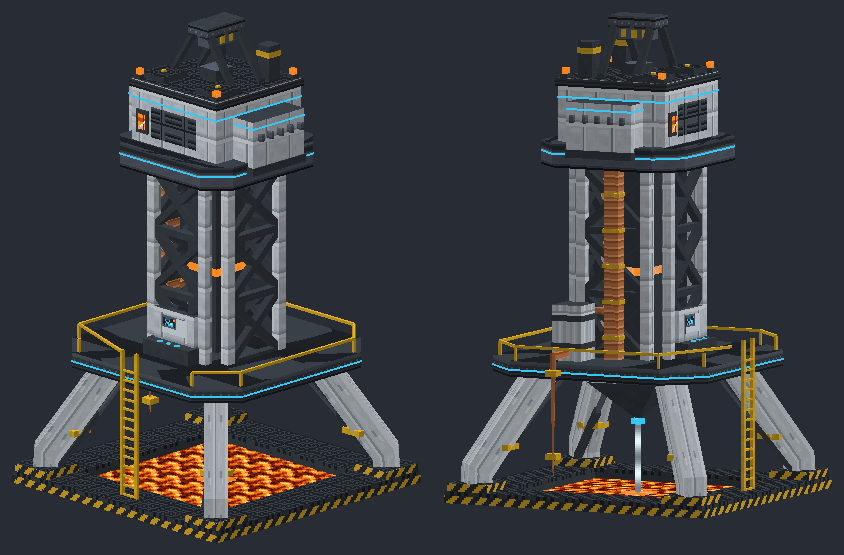
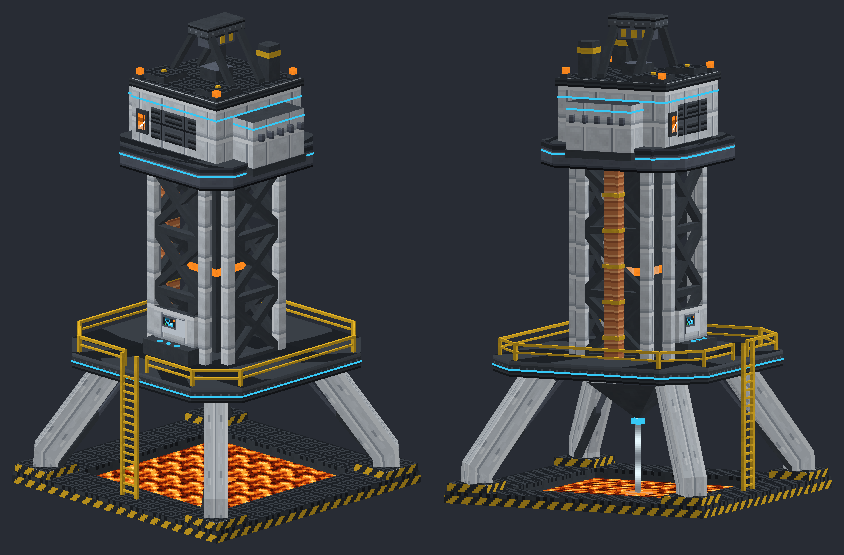
Mega drill cleaned up: no tank or supply pole, no clamps on the legs, a clean two-rail handrail with a gap for the ladder

diff --git a/art/tools/mega_drill_concept.py b/art/tools/mega_drill_concept.py
@@ -10,9 +10,8 @@ the foot so you see the laser going in. Bottom to top:
 - The emitter: a graphite pyramid hung under the deck, its lens glowing, its beam straight down into
   the pit.
 - The deck: a cut-corner square platform, grated, its edge a graphite band with the light line, a
-  yellow handrail round it, a ladder up from the ground; the console against the column facing the
-  ladder's top; and the coolant tank beside the column, piped into its coolant duct and fed by a
-  supply line down off the deck's edge.
+  yellow handrail round it with a gap for the ladder up from the ground, and the console against the
+  column facing the ladder's top.
 - The column: an open lattice, eight posts with big X braces on its four faces, the drive shaft
   inside with an amber band, a square duct up one side.
 - The collar: a wider cut-corner ring with vents and its light line.
@@ -116,9 +115,7 @@ for sx, sz in ((-1, -1), (1, -1), (1, 1), (-1, 1)):
     across = (-out[2], 0, out[0])
     d.sweep('drill_leg', [(foot[0], RING, foot[1]), (foot[0], RING + 10, foot[1]), (head[0], DECK_Y, head[1])], 7, 6,
             lambda i, v=across: v, closed=False, caps=True)
-    # An orange clamp and a foot pad.
-    mx, mz = foot[0] + (head[0] - foot[0]) * 0.4, foot[1] + (head[1] - foot[1]) * 0.4
-    d.box('breeder_rail', mx - 6, 26, mz - 6, mx + 6, 29, mz + 6)
+    # A foot pad.
     d.box('drill_frame', foot[0] - 11, RING, foot[1] - 11, foot[0] + 11, RING + 4, foot[1] + 11, top='breeder_grate', skip=('down',))
     outline(foot[0] - 11, RING, foot[1] - 11, foot[0] + 11, RING + 4, foot[1] + 11, 'hazard')
     # A hydraulic ram from the leg's foot up under the deck, beside it.
@@ -147,20 +144,25 @@ d.box('breeder_amber', C - 7, 1, C - 7, C + 7, 1.6, C + 7, skip=('down',))
 # ---------------------------------------------------------------- the deck
 prism('drill_band8', DECK_Y, DECK_Y + 8, DECK_W, DECK_C, top='breeder_grate', bottom='breeder_graphite', v0=8)
 prism('glow', DECK_Y + 3, DECK_Y + 4, DECK_W + 0.3, DECK_C)
-# The handrail round the deck's edge, with a gap at the ladder on the front.
+# The handrail round the deck's edge: one run from the right of the ladder's gap, round the deck,
+# back to the left of it, with a post at every corner and either side of the gap.
+GAP = 8
 rail = corners(DECK_W - 3, DECK_C - 1)
 RY = DECK_Y + 8
-path = [(x, RY + 7, z) for x, z in rail[7:] + rail[:7]]
-path = [(C + 10, RY + 7, C - DECK_W + 3)] + path[1:] + [(C - 10 + 0, RY + 7, C - DECK_W + 3)]
-d.sweep('breeder_rail', path[:-1], 0.7, 0.7, lambda i: (0, 1, 0), closed=False, caps=True)
-for x, z in rail:
-    d.box('breeder_rail', x - 0.7, RY, z - 0.7, x + 0.7, RY + 7, z + 0.7)
-# The ladder up the front, from the ground to the deck.
+front_z = rail[6][1]
+run = [(C + GAP, front_z)] + [rail[7]] + rail[0:7] + [(C - GAP, front_z)]
+d.sweep('breeder_rail', [(x, RY + 8, z) for x, z in run], 0.7, 0.7, lambda i: (0, 1, 0), closed=False, caps=True)
+d.sweep('breeder_rail', [(x, RY + 4, z) for x, z in run], 0.5, 0.5, lambda i: (0, 1, 0), closed=False, caps=True)
+for x, z in run:
+    d.box('breeder_rail', x - 0.8, RY, z - 0.8, x + 0.8, RY + 8.7, z + 0.8)
+# The ladder up the front, in the rail's gap: two stiles from the ground to hand height over the
+# deck's edge, rungs every 4 pixels.
 LZ = C - DECK_W - 1.5
 for lx in (C - 5, C + 5):
-    d.box('breeder_rail', lx - 0.8, 0, LZ - 0.8, lx + 0.8, RY + 10, LZ + 0.8)
-for y in range(6, int(RY), 5):
+    d.box('breeder_rail', lx - 0.8, 0, LZ - 0.8, lx + 0.8, RY + 8.7, LZ + 0.8)
+for y in range(4, int(RY), 4):
     d.box('breeder_rail', C - 5, y, LZ - 0.5, C + 5, y + 1, LZ + 0.5)
+
 # The console: its back against the column, facing the top of the ladder, so it greets whoever
 # climbs onto the deck: a graphite desk with its lamps, and an upright panel carrying the screen.
 CON = (C - 16, C + 16)          # across the column's front face
@@ -170,19 +172,6 @@ d.box('drill_casing', CON[0] + 2, RY + 8, CZ - 4, CON[1] - 2, RY + 24, CZ, top='
 d.box('breeder_fitting', C - 8, RY + 12, CZ - 4.6, C + 8, RY + 21, CZ - 4, decals={'north': 'screen'}, skip=('south',))
 for k in range(3):
     d.box('glow', C - 7 + k * 6, RY + 8, CZ - 9, C - 5 + k * 6, RY + 8.6, CZ - 7, skip=('down',))
-# The coolant tank beside the column, banded, piped into the column's coolant duct, and fed by a
-# supply line dropping off the deck's edge to the ground (where the intake pumps go).
-TX, TZ = C + 40, C + 16
-d.box('drill_pot', TX - 8, RY, TZ - 8, TX + 8, RY + 28, TZ + 8, top='breeder_graphite')
-for y in (RY + 6, RY + 20):
-    d.box('breeder_graphite', TX - 8.5, y, TZ - 8.5, TX + 8.5, y + 3, TZ + 8.5, skip=('up', 'down'))
-d.sweep('breeder_pipe', [(TX - 8, RY + 24, TZ - 4), (C + CW + 5, RY + 24, TZ - 4), (C + CW + 5, RY + 24, C - 2)], 1.6, 1.6,
-        lambda i: (0, 1, 0), closed=False, caps=True)
-d.sweep('breeder_pipe', [(TX + 8, RY + 4, TZ), (C + DECK_W + 3, RY + 4, TZ), (C + DECK_W + 3, RING, TZ)], 1.6, 1.6,
-        lambda i: (0, 1, 0), closed=False, caps=True)
-d.box('breeder_rail', C + DECK_W, RY - 6, TZ - 3, C + DECK_W + 6, RY - 3, TZ + 3)
-d.box('breeder_rail', C + DECK_W, 24, TZ - 3, C + DECK_W + 6, 27, TZ + 3)
-
 # ---------------------------------------------------------------- the column
 COL = (RY, RY + 6 * B)
 for x, z in corners(CW, CC):

diff --git a/docs/DESIGN.md b/docs/DESIGN.md
@@ -591,7 +591,7 @@ The mod's own miner: not a box quarry but a drill that melts its way straight do
   - Real basis: millimetre-wave drilling, now being developed, where a gyrotron (the microwave source that heats fusion plasma) beams energy down a borehole to vaporise the rock, the vapour is blown back up the hole, and the walls glaze to glass. The rock-melting drills of the 1970s are its ancestors.
 - **How it drills (the user's idea, 4 Oct 2026; to confirm in play):** the beam heats the glass room, which glows brighter, and the 8 x 8 layer of rock beneath it glows red; the blocks crack and pop one after another (sparks, debris), and once the layer is clear the whole tower lowers itself a block into its shaft and starts again. It leaves its pipe behind as it sinks: an umbilical up the glazed shaft to the quarry block, carrying power down and what it mines up. The tower is drawn at its depth (not built from blocks), so it moves smoothly and costs little, and it fits inside its 8 x 8 so it can sink all the way. Real basis: thermal spallation drilling, where rock heated fast enough cracks and flakes apart. Open: whether a tower climbs back up at bedrock or when its drill is taken out (leaning yes, both).
 - **Option B, the mega drill (chosen 4 Oct 2026; to refine):** one big static machine instead of a quarry block and four towers. This is the one we build; the sinking towers above are kept on file. Concept: `art/tools/mega_drill_concept.py`, render `art/concepts/mega_drill.png`.
-  - **Shape (4 Oct 2026, from the user's references):** one landmark tower over the middle of the chunk on a 9 x 9 base, about 13 blocks tall, angular rather than round (squares with their corners cut off, which players prefer to round shapes), and open at the foot so you watch the laser going in. A hazard-striped ring round a 6 x 6 molten pit; four sloped buttress legs from the corners up under the deck, with hydraulic rams beside them; under the deck the emitter, a graphite pyramid whose beam runs straight down into the pit. Then a cut-corner deck with its light line, a yellow handrail and a ladder up from the ground; on it the console, its back to the column, facing the top of the ladder, and the coolant tank beside the column, piped into its coolant duct and fed by a supply line down off the deck's edge (where the intake pumps go); an open lattice column with X braces on its faces and the drive shaft inside, a copper coolant duct up one side; a wider collar with its light line; and on top the drive housing (reworked 4 Oct: a round head with windows and a beacon looked like a lighthouse): a heavy box with louvred vents and an inspection hatch, generator pods with cooling fins on its flanks, and on its roof a rig's crown frame with its sheave block, square cooling fans, short exhaust stacks and warning lamps on the corners. (A round version and a square block version came first.)
+  - **Shape (4 Oct 2026, from the user's references):** one landmark tower over the middle of the chunk on a 9 x 9 base, about 13 blocks tall, angular rather than round (squares with their corners cut off, which players prefer to round shapes), and open at the foot so you watch the laser going in. A hazard-striped ring round a 6 x 6 molten pit; four plated buttress legs sloping from the corners up under the deck, with hydraulic rams beside them; under the deck the emitter, a graphite pyramid whose beam runs straight down into the pit. Then a cut-corner deck with its light line, a two-rail yellow handrail round it with a gap for the ladder up from the ground, and the console, its back to the column, facing the top of the ladder; an open lattice column with X braces on its faces and the drive shaft inside, a copper coolant duct up one side; a wider collar with its light line; and on top the drive housing (reworked 4 Oct: a round head with windows and a beacon looked like a lighthouse): a heavy box with louvred vents and an inspection hatch, generator pods with cooling fins on its flanks, and on its roof a rig's crown frame with its sheave block, square cooling fans, short exhaust stacks and warning lamps on the corners. (A round version and a square block version came first.)
   - **What it mines:** the whole chunk it stands in (16 x 16), starting 8 blocks under its plinth and down to bedrock, so it always stands on a solid crust of untouched ground. The cavity's walls and roof glaze to fused rock as it goes, which keeps water and lava out and stops sand and gravel falling from the crust. Everything stays in its own chunk, so it needs no chunk loading.
   - **Upgrades:** drill heads in Mk I, II and III, each crafted from the last and swapped in at the controller (rule 11); speed modules; the filter. Tungsten tips wear as before.
   - **Coolant:** it drinks water to cool the bore, venting steam from its stacks (rule 12), so it needs intake pumps beside it.
